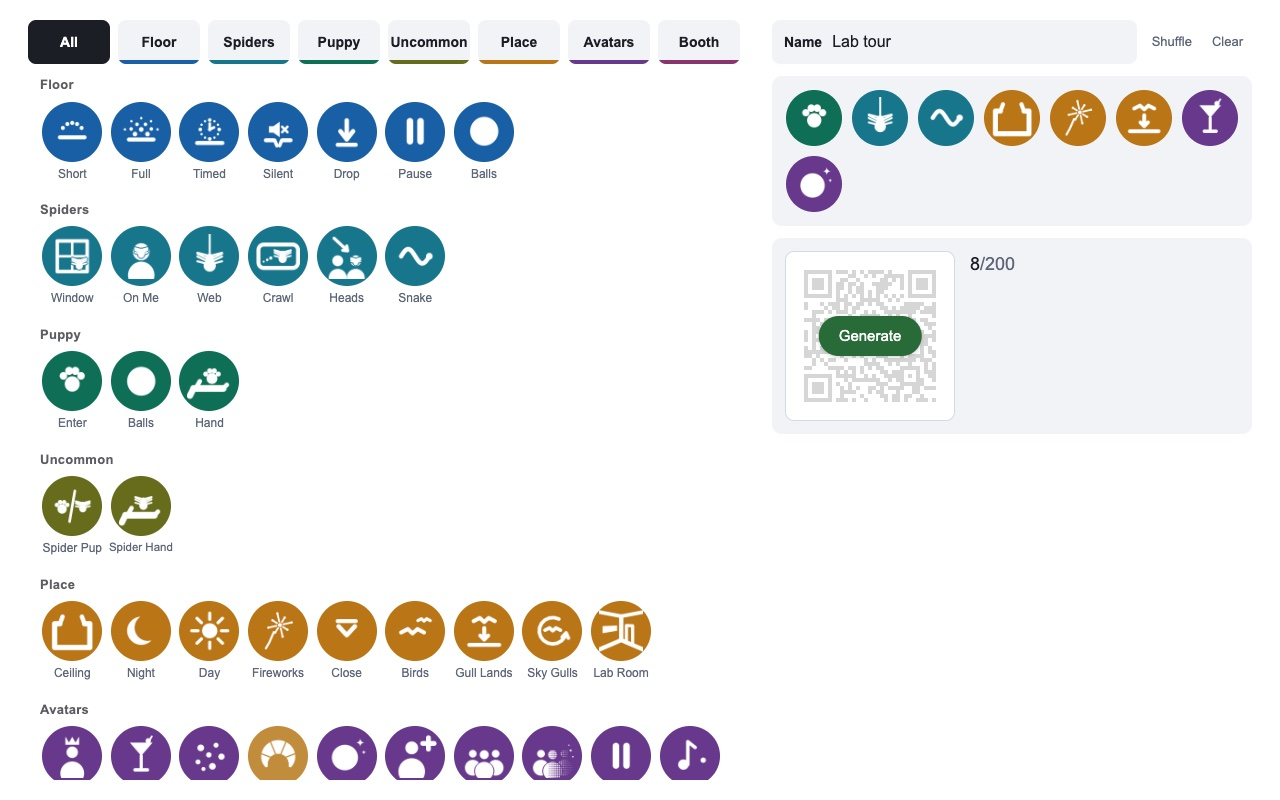
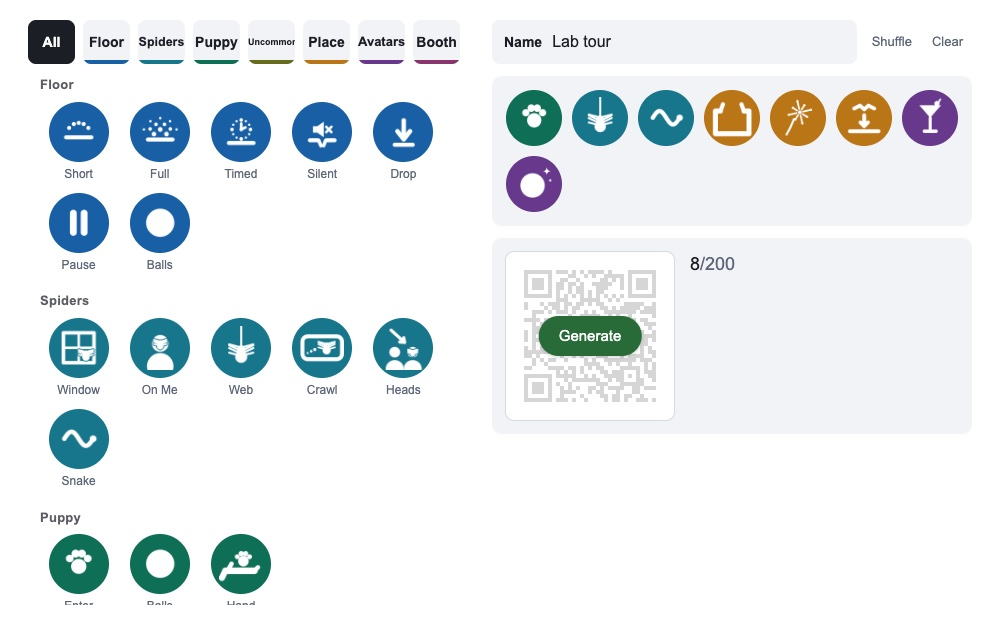
Six steps to start a tour, and now one
His notes on rbv.html, sent through the Loading session and forwarded.

01 RELIABLE. The first order of business now reads: make setup simple, the
system robust to user error, and make sure it never fails silently. "One
click" became a before-and-now comparison, step by step, in his order. Open
Max, the sound manager (named from tools/ppt1-demo/README.md in the Unity
repo), find the auralizer and turn sound on, open Unity Hub, open the
project, start the host in the headset, press Play in Unity. Now: hit Start
RBV. The Unity Hub and Unity icons are the apps' own, taken from the copies
installed on this Mac. Max and the headset get a drawn glyph in the same
tile shape, and Start RBV shows the R.B.V icon. Auto end takes the red of
its own countdown card in the headset (HostPalette.Destructive, #a32d2d).
Live logs is now "Never fails silently": with every headset's errors in one
place, every system gets built faster. The example is from the Unity repo,
4f2487e7: Room objects' log showed where each frame's time went, step by
step, so three passes over the grid became one. I first reached for a
ball-pairing fix, but that one came from code review, not the log, so it
was not used.

02 DESIGNED. "Print" is now "User interface design printout". The plan
builder is shot again at 1000x625, so it reads less zoomed-out, and its
crop anchors top left. Its line: "Plan the tour wherever you like, scan it
in, and just click through."
[…]

diff --git a/rbv.html b/rbv.html
@@ -863,6 +863,37 @@
     .peek.on{ opacity:1; }
     .peek img, .peek video{ display:block; width:100%; aspect-ratio:16/9; object-fit:cover; border-radius:7px; background:var(--rbv-panel); }
     .peek p{ font-size:0.66rem; font-weight:700; letter-spacing:0.04em; color:var(--ink-soft); padding:0.45rem 0.3rem 0.15rem; }
+
+    /* ─── 01 RELIABLE: STARTUP, BEFORE AND NOW ─── the first card spans the
+       row. Each step is an app tile and a short line, in order, with a
+       chevron between; "Now" is one tile. */
+    .step.wide{ grid-column:1 / -1; }
+    .startup{ display:grid; gap:1rem; margin-top:0.8rem; }
+    .startup-row{ display:grid; grid-template-columns:4.2rem 1fr; gap:0.8rem; align-items:start; }
+    .startup-tag{ font-size:0.7rem; font-weight:800; letter-spacing:0.1em; text-transform:uppercase; color:var(--ink-faint); padding-top:0.9rem; }
+    .startup-row.after .startup-tag{ color:var(--cat-ink); }
+    .flow{ list-style:none; counter-reset:flow; display:flex; flex-wrap:wrap; gap:0.55rem 0.4rem; }
+    .flow li{ counter-increment:flow; position:relative; display:flex; flex-direction:column; align-items:center; gap:0.4rem; width:6.4rem; text-align:center; font-size:0.78rem; font-weight:600; line-height:1.3; color:var(--ink-soft); }
+    .flow li::before{ content:counter(flow); position:absolute; top:-0.3rem; left:1.2rem; z-index:1; width:1.15rem; height:1.15rem; border-radius:50%; background:var(--ink-faint); color:var(--white); font-size:0.62rem; font-weight:800; display:flex; align-items:center; justify-content:center; }
+    .flow li + li::after{ content:"›"; position:absolute; left:-0.55rem; top:0.8rem; font-size:1.3rem; color:var(--ink-faint); }
+    .startup-row.after .flow li{ width:auto; flex-direction:row; gap:0.8rem; font-size:1rem; font-weight:700; color:var(--ink); }
+    .startup-row.after .flow li::before{ display:none; }
+    .app{ width:3rem; height:3rem; border-radius:12px; object-fit:cover; box-shadow:0 2px 8px rgba(18,20,28,0.14); }
+    .app.glyph{ display:flex; align-items:center; justify-content:center; background:var(--rbv-utility); }
+    .app.glyph svg{ width:1.5rem; height:1.5rem; fill:none; stroke:var(--white); stroke-width:2; stroke-linecap:round; stroke-linejoin:round; padding:0; background:none; margin:0; }
+    .startup-row.after .app{ width:3.6rem; height:3.6rem; }
+    /* Auto end takes the red of its own countdown card in the headset
+       (HostPalette.Destructive, #a32d2d). */
+    #reliable .step.red{ --cat:#a32d2d; --cat-ink:#a32d2d; }
+    #reliable .steps{ grid-template-columns:repeat(2, minmax(0,1fr)); }
+    #experience-path .tile-media img{ object-position:left top; }
+    @media(max-width:768px){
+      .startup-row{ grid-template-columns:1fr; gap:0.4rem; }
+      .startup-tag{ padding-top:0; }
+      .flow li{ width:4.8rem; font-size:0.72rem; }
+      .flow li + li::after{ display:none; }
+      #reliable .steps{ grid-template-columns:minmax(0,1fr); }
+    }
   </style>
 </head>
 <body>
@@ -938,24 +969,46 @@
     <h2 class="block-label"><span class="num">01</span>Reliable</h2>
     <div class="block-body">
       <div class="prose">
-        <p>The original summer build needed tons of work to give a seamless experience. So my first order of business was to make it <strong>as close to one button as possible</strong>, <strong>robust to user error</strong>, and to make sure it <strong>never fails silently</strong>.</p>
-        <p>The sound system now starts with one click instead of five. With a reliable desktop app in place, we could easily gather logs from every headset, allowing for more robust future builds and iterations. And simple additions, like an automatic end sequence, removed human error.</p>
+        <p>The original summer build needed tons of work to give a seamless experience. So my first order of business was to make setup <strong>simple</strong>, the system <strong>robust to user error</strong>, and to make sure it <strong>never fails silently</strong>.</p>
       </div>
+      <!-- ═══ BEFORE / AFTER ═══ the startup, step by step, as he described
+           it. Max is the sound manager (with its auralizer patch, per
+           tools/ppt1-demo/README.md in the Unity repo). The Unity Hub and
+           Unity icons are the apps' own, taken from the copies installed on
+           this Mac; Max and the headset have no local icon, so they get a
+           drawn glyph in the same tile shape. -->
       <ol class="steps">
-        <li class="step">
-          <svg viewBox="0 0 24 24" aria-hidden="true"><path d="M12 3v8"/><path d="M6.3 6.8a8 8 0 1 0 11.4 0"/></svg>
+        <li class="step wide">
           <p class="step-title">One click</p>
-          <p class="step-line">The sound system, in one click instead of five.</p>
+          <div class="startup">
+            <div class="startup-row">
+              <span class="startup-tag">Before</span>
+              <ol class="flow">
+                <li><span class="app glyph" aria-hidden="true"><svg viewBox="0 0 24 24"><path d="M3 12h2M7 8v8M11 5v14M15 8v8M19 11v2"/></svg></span>Open Max, the sound manager</li>
+                <li><span class="app glyph" aria-hidden="true"><svg viewBox="0 0 24 24"><path d="M3 12h2M7 8v8M11 5v14M15 8v8M19 11v2"/></svg></span>Find the auralizer, turn sound on</li>
+                <li><img class="app" src="images/rbv-logo-unity-hub.png" alt="" width="128" height="128">Open Unity Hub</li>
+                <li><img class="app" src="images/rbv-logo-unity.png" alt="" width="128" height="128">Open the project</li>
+                <li><span class="app glyph" aria-hidden="true"><svg viewBox="0 0 24 24"><path d="M3 9.5a2.5 2.5 0 0 1 2.5-2.5h13A2.5 2.5 0 0 1 21 9.5v4a2.5 2.5 0 0 1-2.5 2.5h-3l-2-2.2h-3L8.5 16h-3A2.5 2.5 0 0 1 3 13.5z"/></svg></span>Start the host in the headset</li>
+                <li><img class="app" src="images/rbv-logo-unity.png" alt="" width="128" height="128">Press Play in Unity</li>
+              </ol>
+            </div>
+            <div class="startup-row after">
+              <span class="startup-tag">Now</span>
+              <ol class="flow">
+                <li><img class="app" src="images/rbv-visionpro-icon.jpg" alt="" width="600" height="600">Hit Start RBV. That's it.</li>
+              </ol>
+            </div>
+          </div>
         </li>
-        <li class="step">
+        <li class="step red">
           <svg viewBox="0 0 24 24" aria-hidden="true"><circle cx="12" cy="13" r="8"/><path d="M12 9v4l2.5 2.5"/><path d="M9.5 2.5h5"/></svg>
           <p class="step-title">Auto end</p>
           <p class="step-line">The headset's sensors end the tour on their own.</p>
         </li>
         <li class="step">
           <svg viewBox="0 0 24 24" aria-hidden="true"><path d="M3 12h4l2-6 4 12 2-6h6"/></svg>
-          <p class="step-title">Live logs</p>
-          <p class="step-line">From every headset, streamed live. No cable.</p>
+          <p class="step-title">Never fails silently</p>
+          <p class="step-line">Live logs from every headset, gathered in one place, so every system now gets built far faster. In Chorus, the log showed where each frame's time went, step by step, so three passes became one.</p>
         </li>
       </ol>
     </div>
@@ -974,7 +1027,7 @@
           <div class="tile-media">
             <img src="images/rbv-printouts.jpg" alt="Printed sheets of the host's control wheel in every state, spread on a desk and marked up by hand" width="1050" height="1400" loading="lazy">
           </div>
-          <p class="step-title">Print</p>
+          <p class="step-title">User interface design printout</p>
           <p class="step-line">I printed the entire UI to put notes on it (because the physical world is still good sometimes).</p>
         </li>
         <li class="step" tabindex="0">
@@ -986,10 +1039,10 @@
         </li>
         <li class="step" id="experience-path" tabindex="0">
           <div class="tile-media">
-            <img src="images/rbv-plan-builder.jpg" alt="The Experience Builder web page: rows of colored icon buttons for every tour moment on the left, and a tour named Lab tour with eight moments lined up on the right" width="1280" height="800" loading="lazy">
+            <img src="images/rbv-plan-builder.jpg" alt="The Experience Builder web page: rows of colored icon buttons for every tour moment on the left, and a tour named Lab tour with eight moments lined up on the right" width="1000" height="625" loading="lazy">
           </div>
           <p class="step-title">Experience path</p>
-          <p class="step-line">Plan the tour online. The host headset scans it, then Next runs it.</p>
+          <p class="step-line">Plan the tour wherever you like, scan it in, and just click through.</p>
         </li>
       </ol>
     </div>
@@ -1080,9 +1133,9 @@
            2026-10-06: someone walks past the virtual puppy with occlusion on
            (the legs hide it) and off (it is drawn over the legs). One switch
            teaches the idea to someone who has never heard the word. -->
-      <p class="block-lede">RBV Camera: an iPad window into the tour.</p>
+      <p class="block-lede">RBV Camera: a movable window into the tour.</p>
       <div class="prose">
-        <p>So guests can watch what the headsets see, and take a photo home.</p>
+        <p>So guests can watch what the headsets see, and take a photo home. It also lets us explain occlusion to people who have never heard of it, with a real example in front of them: a little education built into the tour. We use occlusion on the iPad because its LiDAR makes it far better.</p>
       </div>
       <!-- Compact pair, by request: the occlusion switch and clip on the left,
            his pose with the puppy (an RBV Camera photo) on the right. -->
@@ -1091,7 +1144,7 @@
         <div class="tile-media">
           <img src="images/rbv-camera-pose.jpg" alt="An RBV Camera photo: Sebastian in a headset crouches into a pose on the lab carpet beside the virtual puppy" width="1200" height="827" loading="lazy">
         </div>
-        <figcaption>A photo to take home.</figcaption>
+        <figcaption>A photo to take home. (This dog doesn't look like it likes me very much.)</figcaption>
       </figure>
       <div class="occ">
         <div class="occ-switch" role="group" aria-label="Occlusion">
